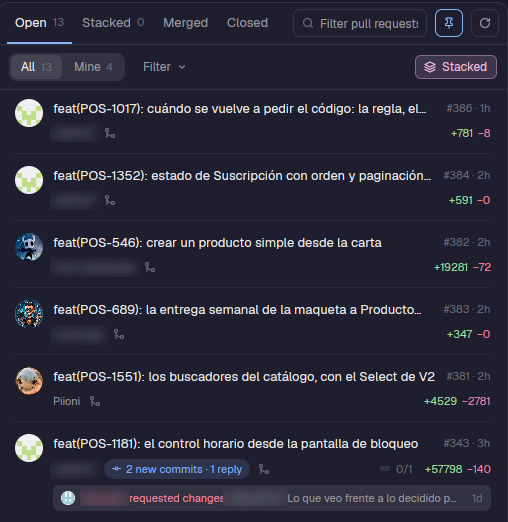
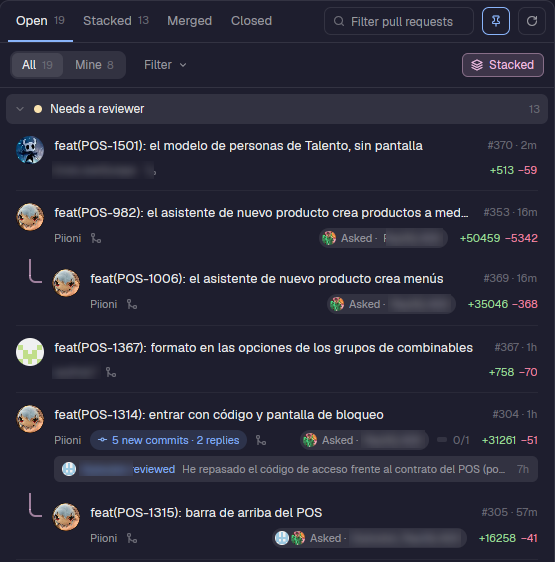
docs: show the prs screenshot in the repo README

diff --git a/README.md b/README.md
@@ -20,6 +20,8 @@ files, so this folder *is* the app.
 | [`ion-diff`](mods/ion-diff) | A file's diff in a tab or popup | Herdr's `changes` |
 | [`ion-tabs`](mods/ion-tabs) | The tab bar and the panel buttons | Herdr's `tabs` |
 
+![The PRs panel](mods/prs/screenshot.png)
+
 `ion-*` are clones: Herdr rewrites its shipped mods on every start, so changes have to live under another name.
 Most mods have a README with screenshots, what they need and how to test them.
 
